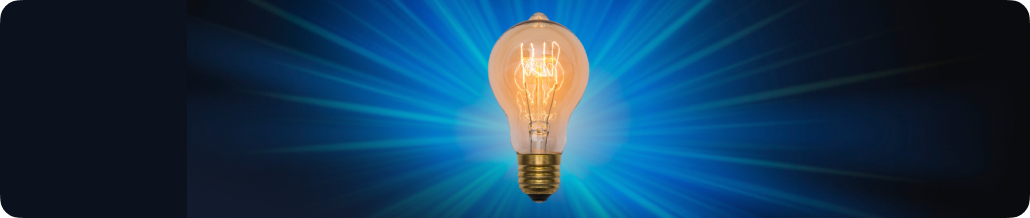
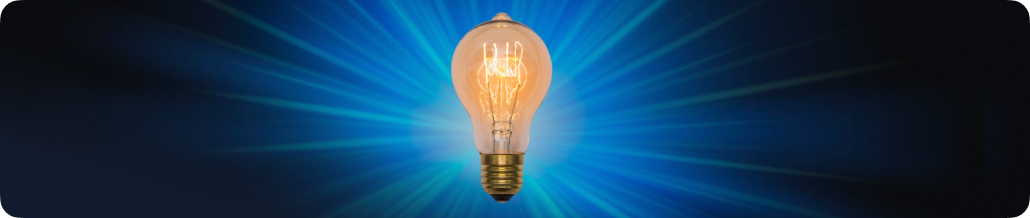
feat: enhance education and electricity pages layout with responsive grid adjustments and improved styling

diff --git a/app/pages/app/education/index.vue b/app/pages/app/education/index.vue
@@ -41,14 +41,14 @@ const { data: educationData, error: fetcherror, refresh, status } = await useLaz
       </UButton>
     </div>
     <section v-else-if="educationData">
-      <UPageGrid class="lg:grid-cols-4">
+      <UPageGrid class="grid-cols-2 sm:grid-cols-3 lg:grid-cols-4 gap-4">
         <NuxtLink
           v-for="platform in educationData"
           :key="platform.slug"
           :to="`electricity/eduSlug/${platform.slug}`"
           class="p-2 sm:p-4 bg-white rounded-lg border-2 border-[#DBF4FF] hover:border-primary transition-colors flex flex-col gap-2 items-center justify-center text-center"
         >
-          <span class="rounded-lg sm:p-2 flex items-center justify-center w-15 h-8.75 sm:w-20 sm:h-12.5">
+          <span class="rounded-lg sm:p-2 flex items-center justify-center w-15 h-8.75 sm:w-20 sm:h-12.5 p-1">
             <NuxtImg :src="platform.logo" alt="Education Logo" class="object-contain" />
           </span>
           <h4 class="font-poppins text-[14px] md:text-[16px] text-[#676A6D] leading-[150%] tracking-[1%] sm:font-bold">

diff --git a/app/pages/app/electricity/index.vue b/app/pages/app/electricity/index.vue
@@ -52,9 +52,9 @@ const { data: availableDiscos, error: fetcherror, refresh, status } = await useL
           v-for="discos in availableDiscos"
           :key="discos.slug"
           :to="`electricity/discoSlug/${discos.slug}`"
-          class="p-2 sm:p-4 bg-white rounded-lg border-2 border-[#DBF4FF] hover:bg-[#E3EDF0] transition-colors flex flex-col gap-2 items-center justify-center text-center"
+          class="p-2 sm:p-4 bg-white rounded-lg border md:border-2 border-[#DBF4FF] hover:border-primary transition-colors flex flex-col gap-2 items-center justify-center text-center"
         >
-          <span class="rounded-lg sm:p-2 flex items-center justify-center w-15 h-8.75 sm:w-20 sm:h-12.5">
+          <span class="rounded-lg sm:p-2 flex items-center justify-center w-15 h-9.5 sm:w-20 sm:h-12.5">
             <NuxtImg :src="discos.logo" alt="Education Logo" class="object-contain" />
           </span>
           <h4 class="font-poppins text-[14px] md:text-[16px] text-[#676A6D] leading-[150%] tracking-[1%] sm:font-bold">
